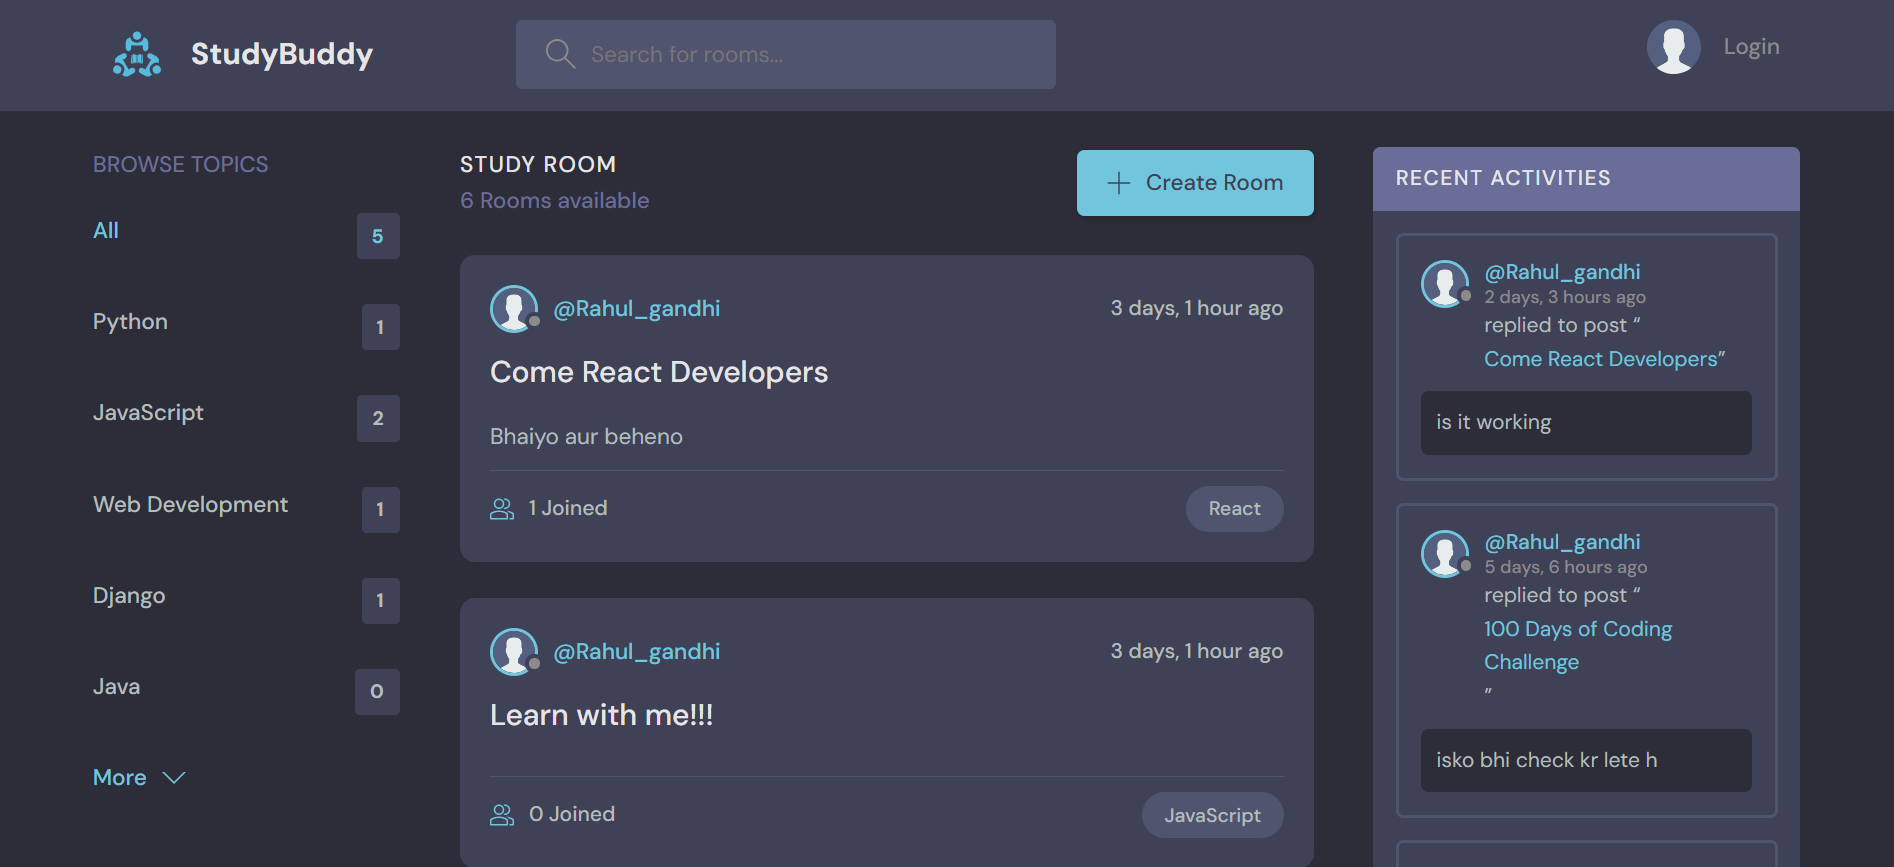
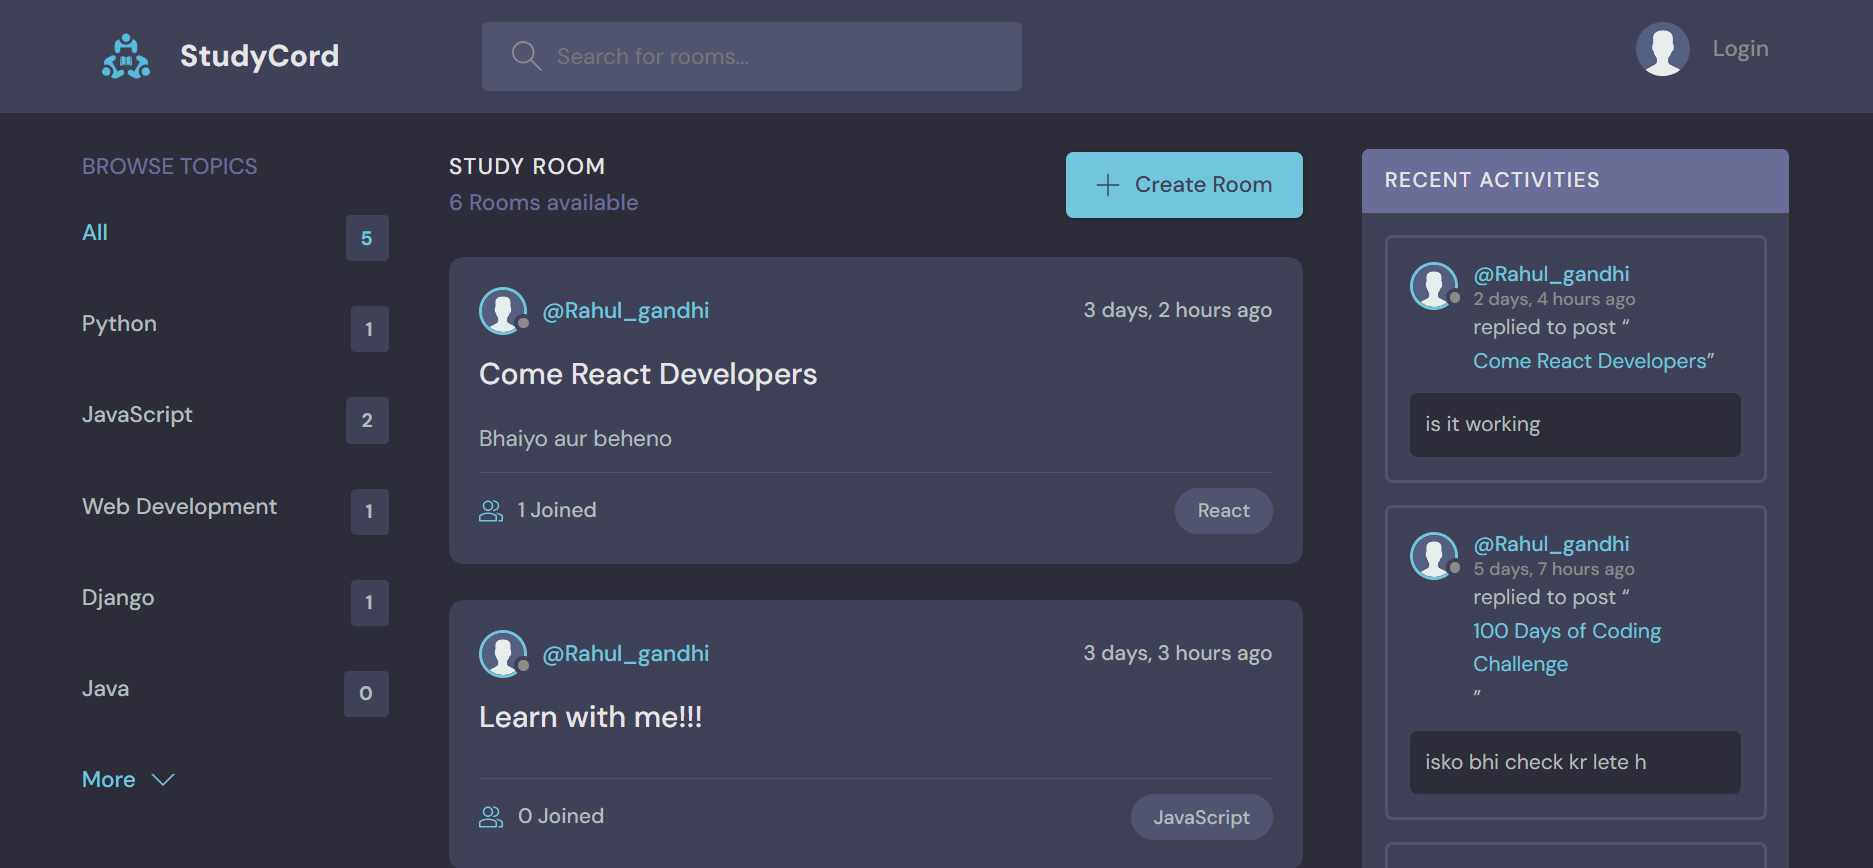
CSS arrangements

diff --git a/base/templates/base/room.html b/base/templates/base/room.html
@@ -1,5 +1,5 @@
 {% extends 'main.html' %}
-
+{% load static %}
 {% block content %}
     <main class="profile-page layout layout--2">
       <div class="container">
@@ -67,7 +67,7 @@
                 <p>Hosted By</p>
                 <a href="{% url 'user-profile' room.host.id %}" class="room__author">
                   <div class="avatar avatar--small">
-                    <img src="https://randomuser.me/api/portraits/men/37.jpg" />
+                    <img src="{% static 'images/avatar.svg' %}" />
                   </div>
                   <span>@{{room.host.username}}</span>
                 </a>
@@ -87,7 +87,7 @@
                     <div class="thread__author">
                       <a href="{% url 'user-profile' message.user.id %}" class="thread__authorInfo">
                         <div class="avatar avatar--small">
-                          <img src="https://randomuser.me/api/portraits/men/37.jpg" />
+                          <img src="{% static 'images/avatar.svg' %}" />
                         </div>
                         <span>@{{message.user.username}}</span>
                       </a>
@@ -129,7 +129,7 @@
             {% for user in participants %}
             <a href="{% url 'user-profile' user.id %}" class="participant">
               <div class="avatar avatar--medium">
-                <img src="https://randomuser.me/api/portraits/men/37.jpg" />
+                <img src="{% static 'images/avatar.svg' %}" />
               </div>
               <p>
                 {{user.username}}

diff --git a/base/templates/base/profile.html b/base/templates/base/profile.html
@@ -1,5 +1,5 @@
 {% extends 'main.html' %}
-
+{% load static %}
 {% block content %}
   <main class="profile-page layout layout--3">
     <div class="container">
@@ -12,7 +12,7 @@
         <div class="profile">
           <div class="profile__avatar">
             <div class="avatar avatar--large active">
-              <img src="https://randomuser.me/api/portraits/men/11.jpg" />
+              <img src="{% static 'images/avatar.svg' %}" />
             </div>
           </div>
           <div class="profile__info">

diff --git a/templates/main.html b/templates/main.html
@@ -7,7 +7,7 @@
     <meta name="viewport" content="width=device-width, initial-scale=1.0" />
     <link rel="shortcut icon" href="assets/favicon.ico" type="image/x-icon" />
     <link rel="stylesheet" href="{% static 'styles/style.css' %}" />
-    <title>StudyBuddy - Find study partners around the world!</title>
+    <title>StudyCord - Find study partners around the world!</title>
   </head>
 
   <body>

diff --git a/templates/navbar.html b/templates/navbar.html
@@ -3,7 +3,7 @@
       <div class="container">
         <a href="{% url 'home' %}" class="header__logo">
           <img src="{% static 'images/logo.svg'%}" />
-          <h1>StudyBuddy</h1>
+          <h1>StudyCord</h1>
         </a>
         <form class="header__search" method="GET" action="{% url 'home' %}">
           <label>
